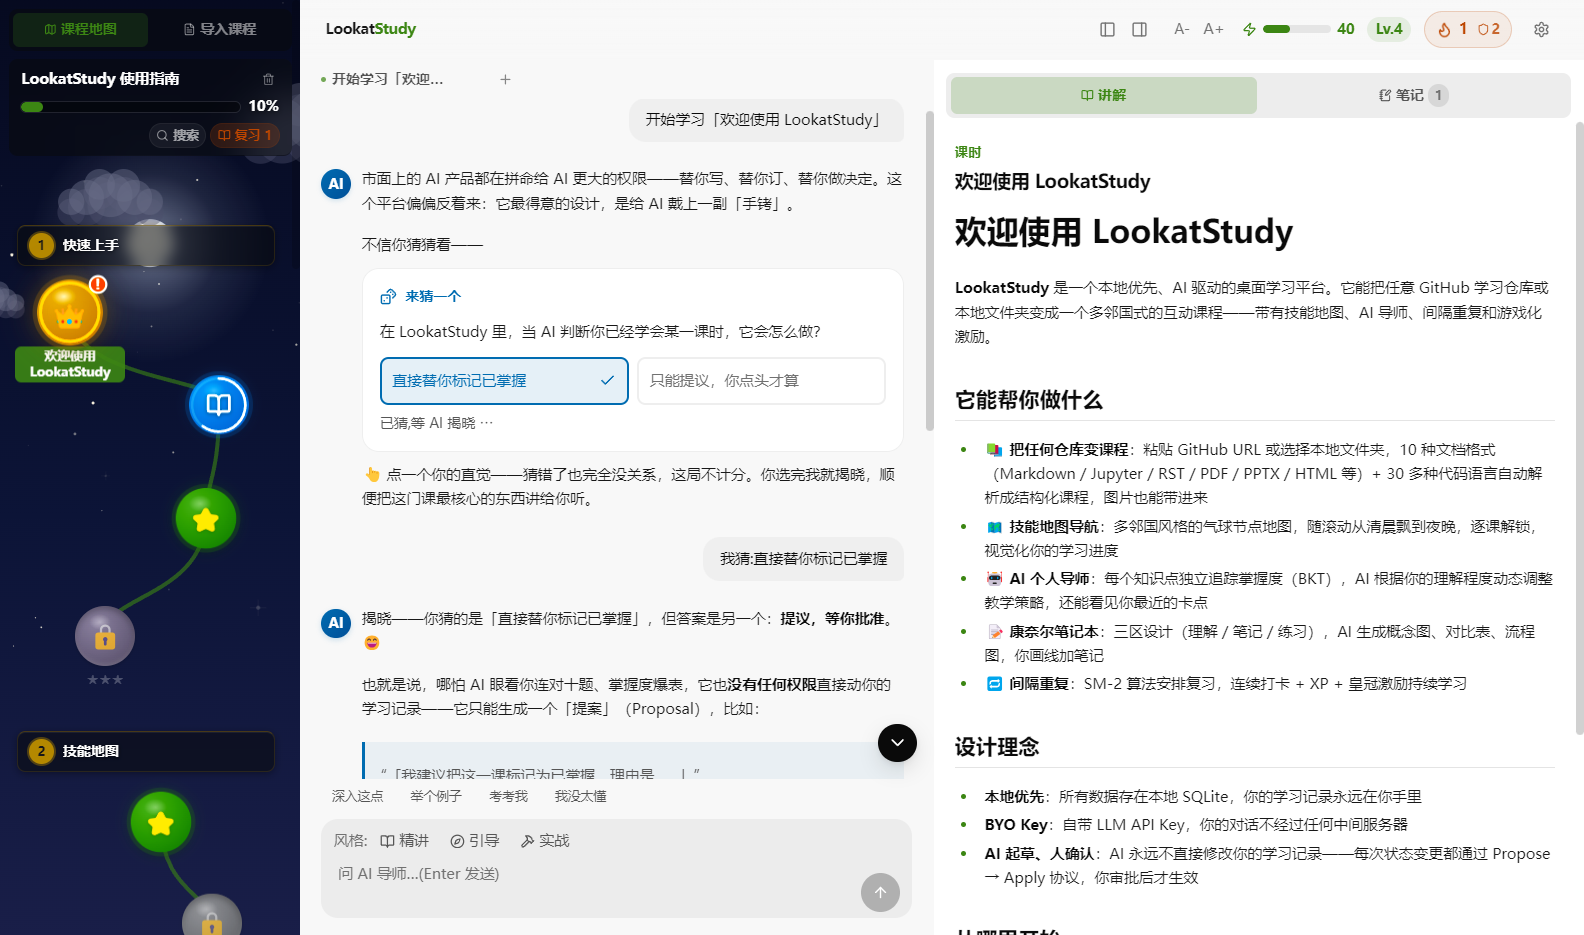
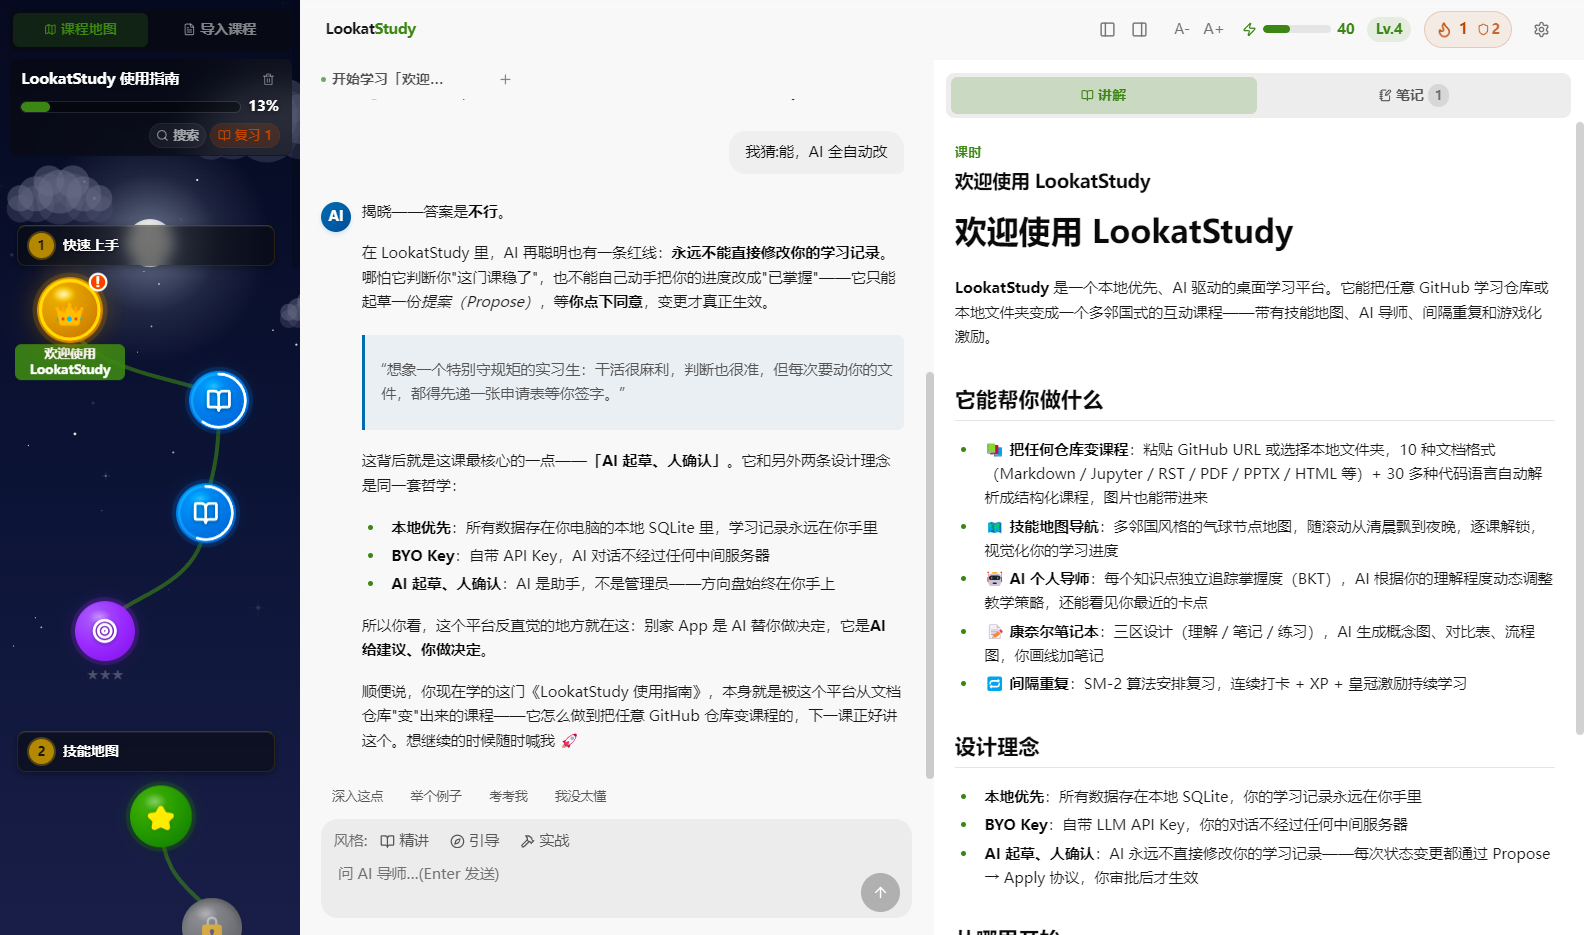
docs(readme): replace search screenshot with chapter Boss exam
Third showcase shot now captures the exam boss fight, the most
distinctive surface, with a real LLM-generated question mid-countdown.
Shots harness seeds chapter-1 lessons to >=0.5 so the exam node
unlocks, drives generate -> start -> answer, then captures. Search
keeps a one-line mention inside the skill-map section.

diff --git a/src/main/index.ts b/src/main/index.ts
@@ -337,7 +337,8 @@ async function runShots(): Promise<void> {
     const seeds: Array<{ nodeId: string; status: "mastered" | "in_progress" | "available"; mastery: number; crownLevel: number }> = [
       { nodeId: "guide-les-1-1", status: "mastered", mastery: 0.95, crownLevel: 1 },
       { nodeId: "guide-les-1-2", status: "in_progress", mastery: 0.6, crownLevel: 0 },
-      { nodeId: "guide-les-1-3", status: "available", mastery: 0, crownLevel: 0 },
+      // 第一章三课全部 ≥0.5,让 exam-node 解锁(Boss 考试可进,第 3 张截图用)
+      { nodeId: "guide-les-1-3", status: "in_progress", mastery: 0.55, crownLevel: 0 },
     ];
     for (const p of seeds) {
       getDb()
@@ -462,18 +463,37 @@ async function runShots(): Promise<void> {
   }
   await shot("02-ai-tutor.png");
 
-  // 课程搜索面板:全课程树大纲
+  // 第一章 Boss 考试:点考试球(map testid 用 id 前 8 位,六个考试球同为 guide-ex,取第一个可点的)
+  // → 后台按知识点分批生成(种子课无 KC,走课时标题伪 KC,5 题一批)→ 就绪 → 开考 → 截答题界面。
   await js(`(async function(){
-    var btn = document.querySelector('[data-testid="map-search-btn"]');
-    if (!btn) return false;
-    btn.click();
-    for (var i = 0; i < 20; i++) {
-      await new Promise(function(r){ setTimeout(r, 100); });
-      if (document.querySelector('[data-testid="course-search-panel"]')) return true;
+    var nodes = document.querySelectorAll('[data-testid="exam-node-guide-ex"]');
+    for (const n of nodes) { if (!n.disabled) { n.click(); break; } }
+    for (var i = 0; i < 960; i++) { // 最多 240s 等生成分批出题
+      await new Promise(function(r){ setTimeout(r, 250); });
+      var ready = document.querySelector('[data-testid="exam-start-btn"]');
+      var failed = document.querySelector('[data-testid="exam-error"]');
+      if (ready || failed) return true;
     }
     return false;
   })()`);
-  await shot("03-course-search.png");
+  await js(`(async function(){
+    var btn = document.querySelector('[data-testid="exam-start-btn"]');
+    if (!btn) return false;
+    btn.click();
+    for (var i = 0; i < 80; i++) {
+      await new Promise(function(r){ setTimeout(r, 250); });
+      if (document.querySelector('[data-testid="exam-answering"]') && document.querySelector('[data-testid="exam-timer"]')) return true;
+    }
+    return false;
+  })()`);
+  await js(`(async function(){
+    var opt = document.querySelector('[data-testid="exam-option-0"]');
+    if (opt) opt.click();
+    // 选完停 8 秒:倒计时环走掉一段(看得出是限时),选中态也稳了
+    await new Promise(function(r){ setTimeout(r, 8000); });
+    return true;
+  })()`);
+  await shot("03-exam-boss.png");
 
   console.error("SHOTS_RESULT=" + JSON.stringify({ ok: saved.length === 3, saved }));
 }

diff --git a/CHANGELOG.md b/CHANGELOG.md
@@ -20,7 +20,7 @@ Entry conventions for contributors:
 - **GitHub Actions CI(`.github/workflows/ci.yml`)** —— push(main)/PR/手动触发,ubuntu 跑 oxlint + 双 tsc typecheck + 63 个 verify 套件 + vite build,外部坏 PR 在 CI 就被挡住。运行器与 engines 底线定为 **Node 22**(tsx 4 在 Node 20 上经 data: URL 解析相对导入会挂,63 套件在 20 跑不起来;本机开发环境是 Node 24)。
 - **多平台打包 workflow(`.github/workflows/package.yml`)** —— workflow_dispatch(任意分支可试跑,可带 `release_tag` 输入让 CI 云端直挂安装包到既有 release,免本机中转)或推 `v*` 标签触发,windows/macos/ubuntu 矩阵各跑构建,产物(NSIS exe / arm64 dmg / AppImage / deb)传 workflow artifacts;attach 任务用 `gh release upload --clobber` 挂到对应 GitHub Release。三个实测才修对的配置:mac `identity: null` 免签名(CI 无 Apple 证书,未签名 dmg 首开需右键打开)、`electron-builder --publish never`(GH Actions 里检测到 CI 会默认自动 publish,找不到 GH_TOKEN 而死)、workflow 声明 `permissions: contents: write`(默认 GITHUB_TOKEN 只读,gh release upload 403);deb 元数据还要求 package.json 的 author 带 email(已补)。v0.9.0 release 据此挂齐四平台安装包,exe 换成 CI 可复现构建。
 - **CONTRIBUTING.md** —— 人类贡献者指引(环境/验证清单/最容易踩的铁律/commit 与 changelog 约定),与 AGENTS.md 互为补充。
-- **`npm run shots` —— README 截图自动采集模式(`--shots`)** —— 无头窗口 + 临时 DB(`lookatstudy-shots.db`)+ .env 真 provider + 预置"学过一阵"状态(皇冠/进度环/锁定球/待复习徽章/XP 能量条),驱动真实 UI(点开始学习 → 真 LLM 二选一猜测卡 → 揭晓;打开课程搜索树)并 capturePage 截 3 张 PNG 进 `docs/screenshots/`(概览/AI 导师/课程搜索)。本模式独享例外:GPU 加速保持开启(capturePage 需要合成,生产路径仍 disableHardwareAcceleration)。
+- **`npm run shots` —— README 截图自动采集模式(`--shots`)** —— 无头窗口 + 临时 DB(`lookatstudy-shots.db`)+ .env 真 provider + 预置"学过一阵"状态(皇冠/进度环/锁定球/待复习徽章/XP 能量条/Boss 考试球解锁),驱动真实 UI(点开始学习 → 真 LLM 二选一猜测卡 → 揭晓;点第一章考试球 → 后台分批生成 → 开考计时答一题)并 capturePage 截 3 张 PNG 进 `docs/screenshots/`(概览/AI 导师/Boss 考试)。本模式独享例外:GPU 加速保持开启(capturePage 需要合成,生产路径仍 disableHardwareAcceleration)。
 
 ### Changed
 - **README 双语重写(showcase 骨架 + 维护者第一人称行文)+ MIT LICENSE 文件** —— 英文主版 + 简体中文镜像(README.zh-CN.md,互链切换)。骨架保留 GitHub 流行式(徽章行/居中头部/三张内嵌截图/快速开始),文字按 human-writing 技能全部重写为作者自述体(为什么写这个/两个没后悔的设计/目前做不到的事),中文版过 check_prose.py 全绿(翻案句 0/破折号 0/提示性冒号 0/黑话 0)。新增 MIT LICENSE 全文(此前只口头声明);`docs/` 目录启用存截图。

diff --git a/README.md b/README.md
@@ -28,7 +28,7 @@ Duolingo solved these problems thoroughly, but only for its own content. I wante
 
 ## The repo becomes a skill map
 
-Sections and lessons turn into nodes on a path. Finish one and the next unlocks. Every chapter ends with a boss exam, generated in the background with timed questions. Finishing a lesson takes more than reading it. Each lesson breaks into knowledge points, and your mastery of the lesson is the lowest of them. Leave one point vague and the crown stays locked.
+Sections and lessons turn into nodes on a path. Finish one and the next unlocks. Finishing a lesson takes more than reading it. Each lesson breaks into knowledge points, and your mastery of the lesson is the lowest of them. Leave one point vague and the crown stays locked. Imports get big, one repo I test with lands at 124 lessons, and the search pill in the left rail doubles as a clickable outline for exactly that case, searching titles and full text, keeping locked lessons unspoiled.
 
 ## The AI tutor knows which concept you're weak on
 
@@ -42,11 +42,11 @@ The AI cannot touch your learning record on its own. It drafts a proposal card, 
 
 Teaching style is a pill next to the input box, switchable anytime. Explain it to me straight, ask me guiding questions, or make me do it myself.
 
-## Search doubles as an outline
+## Chapter exams are boss fights
 
-<img src="docs/screenshots/03-course-search.png" alt="The course search panel with a tree of the whole course" width="880">
+<img src="docs/screenshots/03-exam-boss.png" alt="A timed chapter exam question with one option selected" width="880">
 
-Imports get big. One repo I test with comes out at 124 lessons, and scrolling a map that long gets old. That's what the search panel in the left rail is for. It searches titles and full text, shows the whole course as a clickable tree when the query is empty, and jumps to whatever row you click. Locked lessons stay locked in the list, so no spoilers.
+Each chapter ends with an exam guarding the gate. The questions are generated in the background from that chapter's knowledge points, in batches, while you keep studying elsewhere, and a toast tells you when the boss is ready. Every question runs on a countdown, 60 seconds normally, 90 for the ones with long text or code. Walk away mid-exam and the attempt terminates, with unanswered questions counted wrong, so the star score stays honest. The result page breaks your score down by knowledge point, which tells you what to review next. One rule I hold to, exams never write back into the mastery model. They measure. The tutor teaches.
 
 ## What you can import
 

diff --git a/README.zh-CN.md b/README.zh-CN.md
@@ -28,7 +28,7 @@
 
 ## 仓库会变成一张技能地图
 
-章节和课时变成路上的节点,学完一个,下一个解锁。每章末尾有一场 Boss 考试,题目在后台按知识点生成,答题限时。一节课要算学完,标准比读过一遍高不少。每节课拆成若干知识点,课的掌握度取其中最低的那个,有一项含糊,皇冠就拿不到。
+章节和课时变成路上的节点,学完一个,下一个解锁。一节课要算学完,标准比读过一遍高不少。每节课拆成若干知识点,课的掌握度取其中最低的那个,有一项含糊,皇冠就拿不到。课可以很大,我测试用的一个仓库导出来 124 节课,这时左栏的搜索药丸兼作全课大纲,标题全文都搜,没解锁的课照样锁着,不剧透。
 
 ## AI 导师知道你具体哪里弱
 
@@ -42,11 +42,11 @@ AI 想改你的学习档案,唯一的途径是发一张提议卡,你点批准才
 
 教学风格随时换。输入框旁边有个人设药丸,精讲、引导、实战三种,今天想被直接告知就选精讲,想被追问就选引导。
 
-## 搜索能当大纲用
+## 章节考试是 Boss 战
 
-<img src="docs/screenshots/03-course-search.png" alt="课程搜索面板,带整门课的目录树" width="880">
+<img src="docs/screenshots/03-exam-boss.png" alt="章节考试进行中,倒计时在走,一个选项已选中" width="880">
 
-导入的课可以很大,我测试用的一个仓库导出来 124 节课。课多了地图滚起来很累,左栏的搜索面板就是为这个做的。它搜标题也搜全文,不输入关键词时显示整门课的目录树,点哪行跳哪课。没解锁的课在列表里照样锁着,不会剧透。
+每章末尾有一场考试守门。题目按这一章的知识点在后台分批生成,你在别处接着学,生成完会弹提示告诉你 Boss 就绪。每道题都踩着倒计时,常规 60 秒,长题干带代码的 90 秒。中途走开,这次考试就算被终止,没答的题按答错计分,星数不作假。结算页把得分按知识点拆开,该复习什么一目了然。有一条规矩我守得很死,考试不回写掌握度模型,它只管测,教是导师的事。
 
 ## 能导入什么
 
